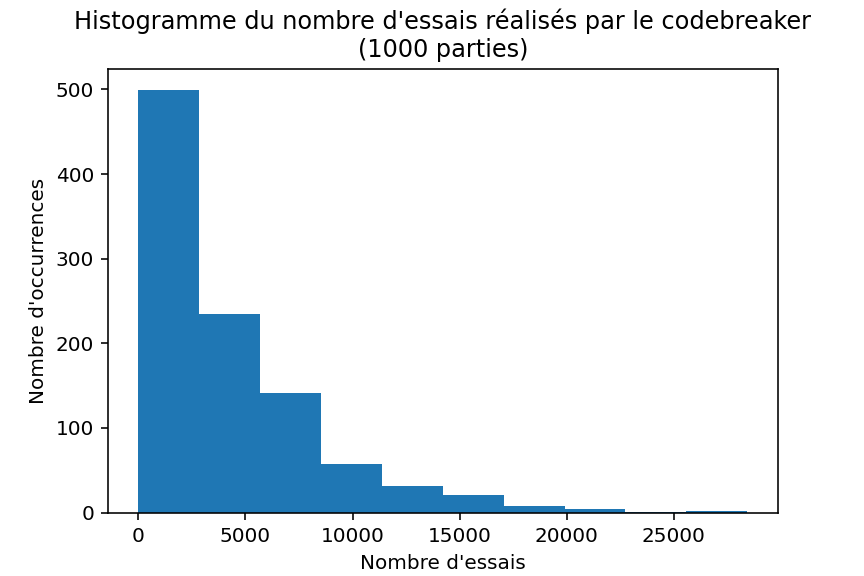
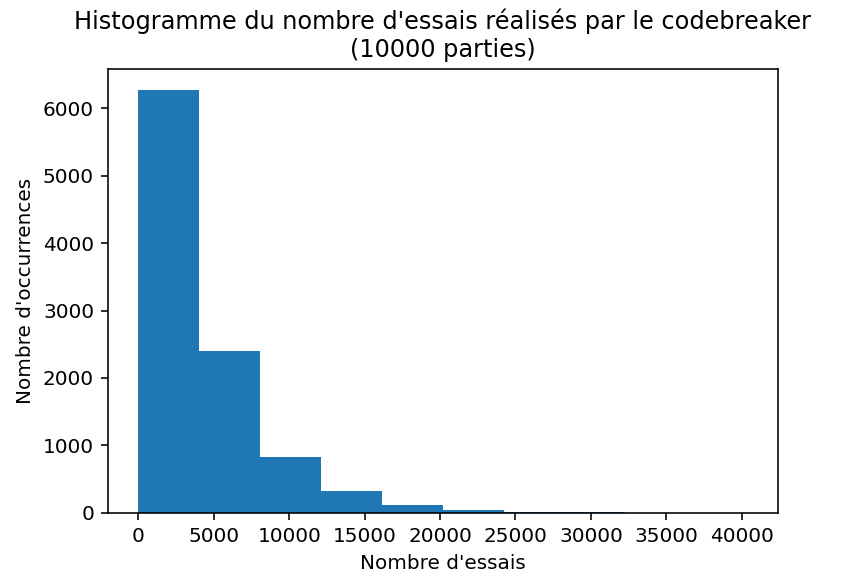
Question 4

diff --git a/play.py b/play.py
@@ -35,10 +35,16 @@ if __name__ == '__main__':
     # Les lignes suivantes sont à modifier / supprimer selon ce qu'on veut faire, quelques exemples :
 
     # Faire jouer ensemble codemaker0.py et codebreaker0.py pour 5 parties :
-    import codebreaker0
-    import codemaker0
+    # import codebreaker0
+    # import codemaker0
+    # for i in range(5):
+    #     play(codemaker0, codebreaker0)
+        
+    # Faire jouer codebreaker1.py et codemaker1.py
+    import codebreaker1
+    import codemaker1
     for i in range(5):
-        play(codemaker0, codebreaker0)
+        play(codemaker1, codebreaker1)
 
     #  Faire jouer un humain contre codemaker0.py :
     #import codemaker0

diff --git a/q3_esperance.py b/q3_esperance.py
@@ -6,7 +6,7 @@ import codemaker1
 import codebreaker0
 import matplotlib.pyplot as plt
 
-nbr_parties = 1000 #int(input("Combien de parties ?\n> "))
+nbr_parties = 10000 #int(input("Combien de parties ?\n> "))
 parties = []
 
 for _ in range(nbr_parties):
